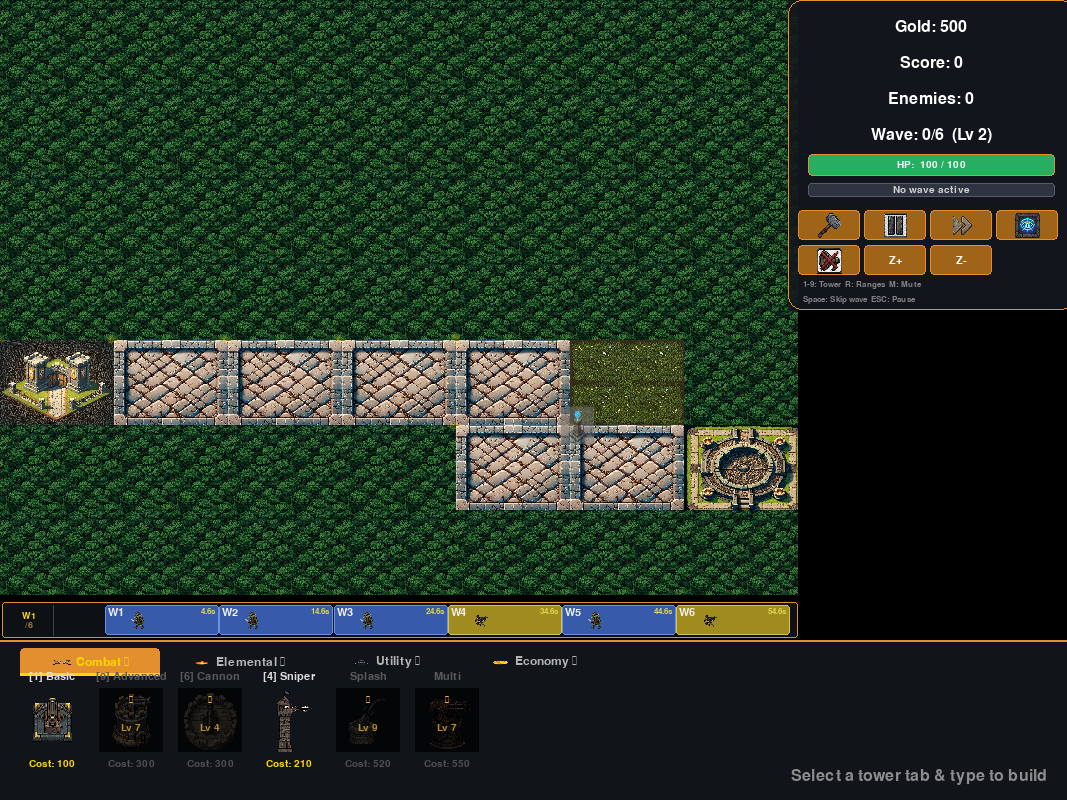
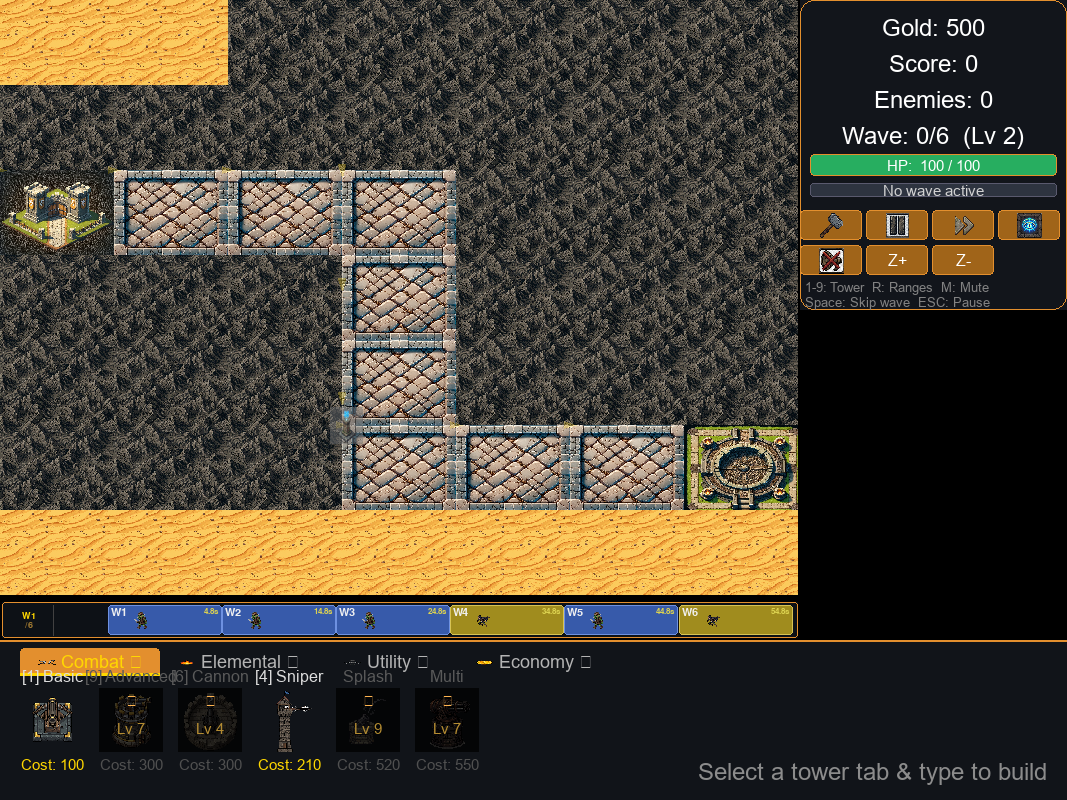
image updates

diff --git a/styles.css b/styles.css
@@ -622,11 +622,12 @@ body {
   height: 20px;
   width: auto;
   margin: 0;
-  filter: none;
+  filter: drop-shadow(0 0 2px rgba(255, 255, 255, 0.4));
 }
 
 .chip:hover .tag-icon {
   transform: scale(1.1);
+  filter: drop-shadow(0 0 2px rgba(255, 255, 255, 0.8));
 }
 
 .chip span {
@@ -795,6 +796,21 @@ body {
   .footer {
     border-top: 1px solid #e0e0e0;
   }
+  
+  .tag-icon {
+    filter: grayscale(100%) opacity(0.7);
+  }
+  .tag-icon:hover {
+    filter: grayscale(0%) opacity(1);
+  }
+  .skill-tags .tag-icon,
+  .chip .tag-icon {
+    filter: none;
+  }
+  .skill-tags .tag-icon:hover,
+  .chip:hover .tag-icon {
+    filter: none;
+  }
 }
 
 /* Lightbox Styles */
@@ -918,7 +934,7 @@ body {
   width: auto;
   display: inline-block;
   vertical-align: middle;
-  filter: grayscale(100%) opacity(0.7);
+  filter: drop-shadow(0 0 2px rgba(255, 255, 255, 0.4)) grayscale(100%) opacity(0.7);
   transition:
     transform 0.2s ease,
     filter 0.2s ease;
@@ -926,18 +942,19 @@ body {
 
 .tag-icon:hover {
   transform: scale(1.1);
-  filter: grayscale(0%) opacity(1);
+  filter: drop-shadow(0 0 3px rgba(255, 255, 255, 0.8)) grayscale(0%) opacity(1);
 }
 
 .skill-tags .tag-icon {
   font-size: 48px;
   height: 48px;
-  filter: none;
+  filter: drop-shadow(0 0 4px rgba(255, 255, 255, 0.4));
   opacity: 1;
 }
 
 .skill-tags .tag-icon:hover {
   transform: scale(1.2);
+  filter: drop-shadow(0 0 6px rgba(255, 255, 255, 0.8));
 }
 
 img.tag-icon.invert-img {
